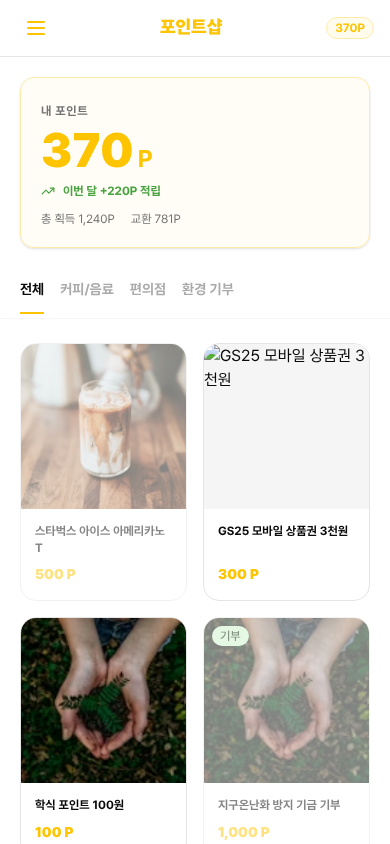
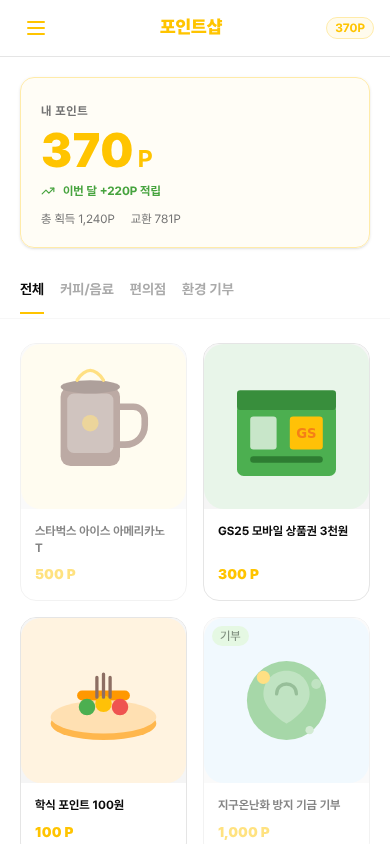
ppt 사전작업

diff --git a/fe/src/features/auth/AuthPages.tsx b/fe/src/features/auth/AuthPages.tsx
@@ -1,4 +1,4 @@
-import { FormEvent, useEffect, useState } from 'react'
+import { FormEvent, useEffect, useMemo, useState } from 'react'
 import { Link, useNavigate, useSearchParams } from 'react-router'
 import { ArrowLeft, Mail, Phone } from 'lucide-react'
 import { toast } from 'react-toastify'
@@ -8,6 +8,7 @@ import type { Affiliation } from 'src/globals/api/types'
 import { setPendingAffiliation } from 'src/features/auth/signupBuildingStorage'
 import { EcoButton } from 'src/shared/ui/eco'
 import { MascotImage } from 'src/shared/components/mascort'
+import { SearchableSelect } from 'src/shared/components/SearchableSelect'
 
 type SignupIntent = 'signup' | 'oauth'
 
@@ -24,9 +25,6 @@ export function AffiliationSelection() {
         getAffiliations()
             .then((affiliationList) => {
                 setAffiliations(affiliationList)
-                if (affiliationList.length === 1) {
-                    setAffiliationId(affiliationList[0].affiliationId)
-                }
             })
             .catch(() => toast.error('소속 목록을 불러오지 못했습니다.'))
             .finally(() => setLoading(false))
@@ -34,6 +32,15 @@ export function AffiliationSelection() {
 
     const selectedAffiliation = affiliations.find(
         (affiliation) => affiliation.affiliationId === affiliationId,
+    )
+
+    const affiliationOptions = useMemo(
+        () =>
+            affiliations.map((affiliation) => ({
+                value: affiliation.affiliationId,
+                label: affiliation.name,
+            })),
+        [affiliations],
     )
 
     const handleContinue = (e: FormEvent) => {
@@ -99,39 +106,24 @@ export function AffiliationSelection() {
                         className="flex flex-col gap-5"
                         onSubmit={handleContinue}
                     >
-                        {affiliations.length > 1 ? (
+                        {affiliations.length > 0 ? (
                             <div className="flex flex-col gap-1.5">
                                 <label className="text-on-surface text-sm font-semibold">
                                     학교·캠퍼스
                                 </label>
-                                <select
+                                <SearchableSelect
+                                    options={affiliationOptions}
                                     value={affiliationId}
-                                    onChange={(e) =>
-                                        setAffiliationId(Number(e.target.value) || '')
-                                    }
-                                    className="border-outline-variant bg-surface focus:ring-primary-container rounded-lg border p-3.5 outline-none focus:ring-2"
-                                >
-                                    <option value="">학교를 선택해 주세요</option>
-                                    {affiliations.map((affiliation) => (
-                                        <option
-                                            key={affiliation.affiliationId}
-                                            value={affiliation.affiliationId}
-                                        >
-                                            {affiliation.name}
-                                        </option>
-                                    ))}
-                                </select>
+                                    onChange={setAffiliationId}
+                                    placeholder="학교를 검색·선택해 주세요"
+                                    searchPlaceholder="학교명 검색..."
+                                />
                             </div>
-                        ) : selectedAffiliation ? (
-                            <div className="border-outline-variant bg-surface-container-low rounded-lg border px-4 py-3">
-                                <p className="text-on-surface-variant text-xs font-bold">
-                                    학교·캠퍼스
-                                </p>
-                                <p className="text-on-surface text-sm font-semibold">
-                                    {selectedAffiliation.name}
-                                </p>
-                            </div>
-                        ) : null}
+                        ) : (
+                            <p className="text-on-surface-variant text-sm">
+                                등록된 소속이 없습니다. 관리자에게 문의해 주세요.
+                            </p>
+                        )}
                     </form>
                 )}
             </main>

diff --git a/ppt_master/projects/ecoreport_ppt169_20260524/sources/slides.md b/ppt_master/projects/ecoreport_ppt169_20260524/sources/slides.md
@@ -174,9 +174,10 @@
 
 | 기능 | 설명 | MVP 상태 |
 |------|------|----------|
-| **AI 이미지 분석** | 3단계 파이프라인, 5초 이내 판별 | BE Cloud Run `/analyze` 연동 ✅ / FE mock UX |
-| **제보·포인트** | 사진 + 건물/강의실 → AI 판별 후 저장 | `POST /api/reports` + AI ✅ / 포인트 mock |
-| **관리자 대시보드** | 제보 목록·월 절약 요약 | UI 6화면 ✅ / mock 데이터 |
+| **AI 이미지 분석** | 3단계 파이프라인, 5초 이내 판별 | BE→Cloud Run `/analyze` 연동 ✅ / FE mock UX |
+| **제보·포인트** | 사진 + 장소 선택 → AI 판별 후 저장 | `POST /api/reports` + AI ✅ / 포인트 mock |
+| **관리자 대시보드** | 제보·통계·장소 관리 | UI 6화면 ✅ / 장소 관리 BE 연동 ✅ / 나머지 mock |
+| **회원가입·인증** | 이메일·Google OAuth + 소속 선택 | 이메일·JWT ✅ / Google OAuth ✅ |
 
 **AI 3단계 상세 (슬라이드 각주 또는 보조 슬라이드)**:
 
@@ -189,8 +190,8 @@
 - **1단계**: chair=0 AND desk=0 → 강의실 아님 / person≥1 → 사용 중 / person=0 → 2단계
 - **3단계**: ac_status=ON 또는 light_status=ON → **낭비 확인**
 
-**학생 UI (5탭)**: 홈 · 낭비 제보 · 제보 이력 · 포인트샵 · 마이페이지  
-**관리자 UI (6화면)**: 대시보드 · 제보 · 건물 · 포인트 · 통계 · 사용자
+**학생 UI (9화면)**: 로그인 · 회원가입(소속 선택) · 홈 · 제보 작성 · 제보 완료 · 제보 이력 · 포인트샵 · 마이페이지  
+**관리자 UI (6화면)**: 대시보드 · 제보 관리 · 장소 관리(FE+BE ✅) · 기프티콘 관리 · 에너지 통계 · 사용자 관리
 
 ### 시각 자료
 
@@ -223,11 +224,11 @@
 
 | 단계 | 화면 | 설명 |
 |:----:|------|------|
-| 1 | 로그인 | 이메일 회원가입/로그인 (BE 연동 ✅) |
-| 2 | 홈 | 제보하기 CTA |
-| 3 | 제보 작성 | 카메라/갤러리 + 건물·강의실 선택 |
+| 1 | 로그인 | 이메일/Google OAuth (BE 연동 ✅) |
+| 2 | 홈 | 포인트 잔액 + 건물 절약 전기량 CTA |
+| 3 | 제보 작성 | 카메라/갤러리 + 장소 3단계 선택 |
 | 4 | AI 분석 | 3단계 진행 UI → 낭비 확인 / 판별 불가 |
-| 5 | 완료 | 포인트 적립 (+50~89P) |
+| 5 | 완료 | 포인트 적립 (낭비 확인 +100P) |
 | 6 | 이력·포인트샵 | 누적 포인트·교환 UI |
 
 **시나리오 예** ([사용자_시나리오.md](../기획/캠퍼스_에너지_절약/02_서비스_기획/사용자_시나리오.md)):
@@ -243,9 +244,9 @@
 
 | 구분 | 해커톤 MVP |
 |------|------------|
-| ✅ **완료** | UI 6화면(학생+관리자), 이메일 회원가입/로그인, JWT, `POST/GET /api/reports`(Cloud Run AI), `GET /api/buildings`, `GET /api/points/me`, Docker 배포, monorepo `ai/` |
-| 🔶 **데모** | FE AI 진행 UI mock, 포인트·관리자 — **FE mock** (`VITE_USE_MOCK`, 기본 `true`) |
-| ⏳ **미구현** | GCS, `aiResult` DB, Kafka, 관리자 API |
+| ✅ **완료** | 학생 UI 9화면·관리자 6화면, 이메일·**Google OAuth**, JWT, `POST/GET /api/reports`(Cloud Run AI 연동), `GET /api/buildings`, 장소 관리 **CRUD API+UI**, `GET /api/points/me`, Flyway 시드, Docker ubuntu03 배포, monorepo `ai/` |
+| 🔶 **FE mock** | AI 진행 UI (`simulateAiAnalysis`), 포인트 적립·관리자 대시보드·통계·기프티콘 — `VITE_USE_MOCK=true` |
+| ⏳ **미구현** | GCS 실업로드, `aiResult` DB 저장, Kafka 운영 연동, 관리자 제보 승인 API |
 
 ### 시각 자료
 
@@ -277,26 +278,22 @@
 
 ### 슬라이드 본문
 
-| 레이어 | 스택 (한 줄) |
-|--------|-------------|
-| **FE** | React 19 · Vite · Tailwind v4 · Redux-Saga · shadcn/ui |
-| **BE** | Spring Boot 4 · MySQL · JPA · JWT |
-| **AI** | YOLOv8n + Custom AC + Gemini 2.5 Flash (Vertex) · FastAPI |
-| **Infra** | Docker Compose · ubuntu03 (FE:8081, BE:8080, MySQL) |
+| 레이어 | 스택 |
+|--------|------|
+| **FE** | React 19 · Vite · TailwindCSS v4 · Redux-Saga · shadcn/ui · Recharts · i18next · Pretendard |
+| **BE** | Spring Boot 4 · MySQL 8.4 · JPA/Hibernate · JWT(HS256) · Flyway · Google OAuth2 |
+| **AI** | YOLOv8n(COCO) + YOLOv8n Custom(mAP 0.990) + Gemini 2.5 Flash · FastAPI · Cloud Run |
+| **Infra** | Docker Compose · ubuntu03 서버 (FE:8081, BE:8080, MySQL) |
 
-**한 줄 추가**:
-
-- **비동기 설계**: Kafka `member-point-topic` — Producer/Consumer 코드 존재, 운영 연동 P1
-- **이미지**: GCS 비공개 버킷 설계 — 현재 placeholder URL
-
-**아키텍처 (축소판 1장)**:
+**아키텍처**:
 
 ```
-[학생·관리자 React] ──HTTPS──► [Spring Boot API] ──► [MySQL]
+[학생·관리자 React] ──JWT──► [Spring Boot API] ──► [MySQL]
                                     │
-                                    ├──► [GCS] (목표)
+                                    ├──► [GCS] (P1)
                                     ├──► [Kafka] (P1)
-                                    └──► [FastAPI + YOLO + Gemini] (목표)
+                                    └──► [FastAPI Cloud Run] ✅
+                                          └─ YOLOv8n → Gemini 2.5 Flash
 ```
 
 ### 시각 자료
